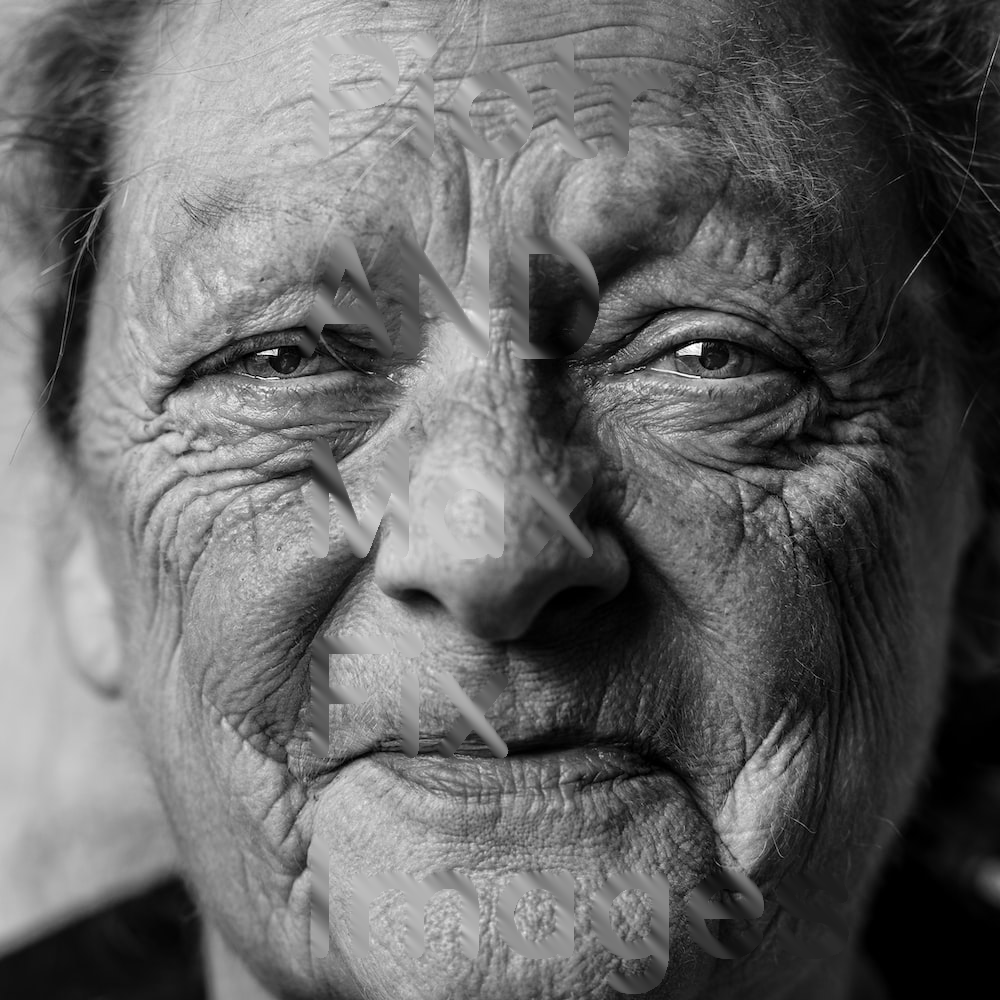
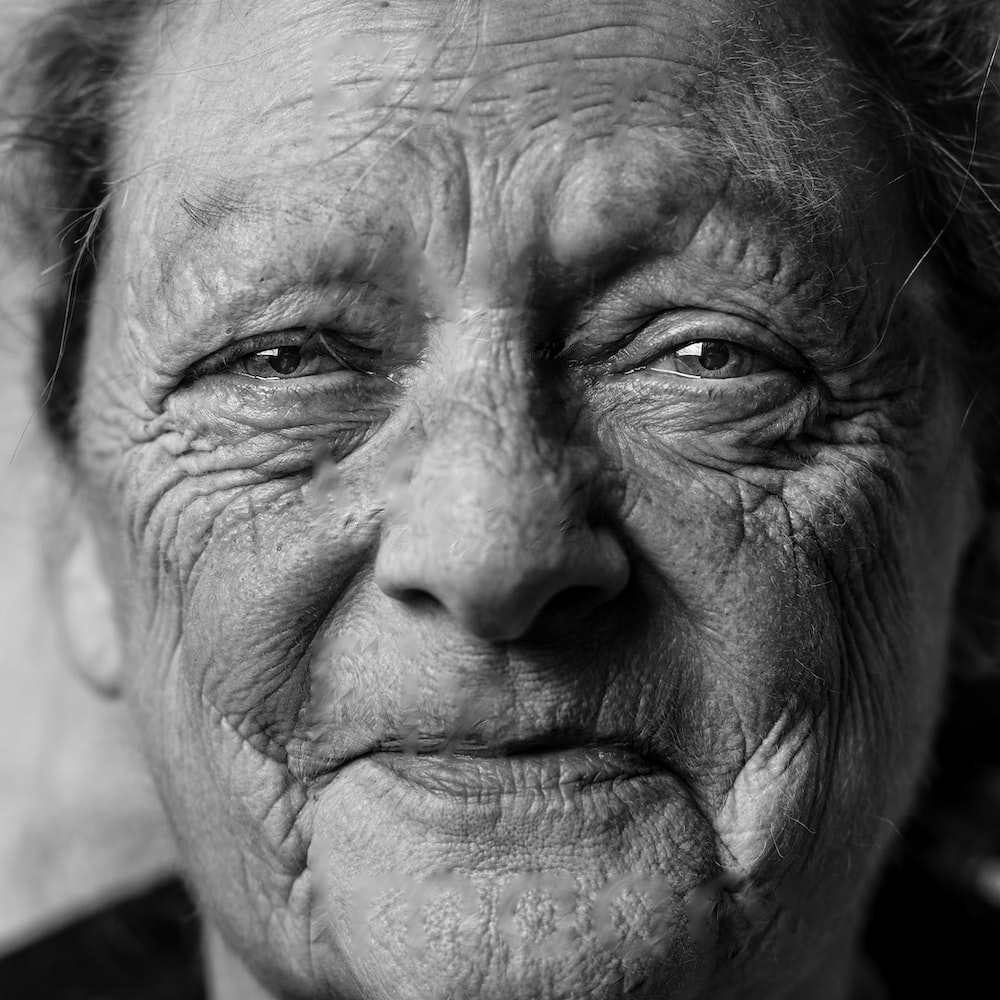
what

diff --git a/imagerestoration-1.py b/imagerestoration-1.py
@@ -74,7 +74,7 @@ def restore_image(masked1,mask,iteration,K):
     #get position of the mask
     positions=[]
 
-    for i in  tqdm(range(len(mask))):
+    for i in  (range(len(mask))):
         for j in range(len(mask[i])):
             if mask[i][j]==0:
                 positions.append((i,j))
@@ -124,7 +124,7 @@ def restore_image(masked1,mask,iteration,K):
                 #anisotropic equation
                 masked[i][j] = masked[i][j] + (((1/2)*(diffusion(masked,i+1, j,K) + diffusion(masked,i,j,K)))*(masked[i+1][j] - masked[i][j])-((1/2)*(diffusion(masked,i-1, j,K) + diffusion(masked,i, j,K)))\
                         *(masked[i][j]-masked[i-1][j])) + (((1/2)*(diffusion(masked,i, j+1,K) + diffusion(masked,i,j,K)))*(masked[i][j+1] - masked[i][j])-((1/2)*(diffusion(masked,i, j-1,K) + diffusion(masked,i, j,K)))\
-                                                                          *(masked[i][j]-masked[i][j-1]))
+                        *(masked[i][j]-masked[i][j-1]))
 
 
     return masked
@@ -159,27 +159,27 @@ def error_measure(mask, original, restored):
 
 
 #running the numerical method
-"""
-masked=restore_image(masked,mask,100,200)
+
+masked=restore_image(masked,mask,100,248)
 restored = Image.fromarray(masked)
 restored_save=restored.convert("L")
 restored_save.show()
-restored_save.save("new/restored.png")
+restored_save.save("new_method/restored.png")
 
 #calculate the error
 print("Calculate the error\n\n")
 print(error_measure(mask, ar, masked))
-
 """
+
 error_from_steps=[]
 
 #stepsize=np.logspace(0,3,30)
-stepsize=np.linspace(1,1000,10)
+stepsize=np.linspace(240,260,10)
 #print(stepsize)
 
 setpsize2=np.linspace(1,1000,10)
 maxvalud=len(stepsize)
-for i in (stepsize):
+for i in tqdm(stepsize):
     i=int(i)
     masked1=ar*mask
     
@@ -190,7 +190,7 @@ for i in (stepsize):
         restored = Image.fromarray(masked1)
         #restored.show()           
         restored2=restored.convert("L")
-        restored2.save("new/K_{}_new_method_restored.png".format(i))
+        restored2.save("new_method/K_{}_new_method_restored.png".format(i))
     print("calculating the error")
     error=error_measure(mask, ar, masked3)
     error_from_steps.append(error)
@@ -198,10 +198,13 @@ for i in (stepsize):
     print("\n\n")
 
 plt.plot(stepsize,error_from_steps)
+
 x=min(error_from_steps)
 y=stepsize[error_from_steps.index(x)]
-print("The minimum error is {} for value K={}".format(x,y))
+print("The minimum error is {} for K={}".format(x,y))
 plt.plot(y,x,marker="o",label="minimum error at {} iterations".format(y))
+print("The minimum error is {} for value K={}".format(x,y))
+
 #make a logorithim plot
 plt.grid()
 #plt.ylim(0)
@@ -209,5 +212,5 @@ plt.grid()
 plt.xlabel("Value of K")
 plt.ylabel("Chi^2 error")
 plt.title("Chi^2 error as a function of K")
-plt.savefig("new/error_vs_K.png", bbox_inches='tight')
-plt.show()
+plt.savefig("new_method/error_vs_K.png", bbox_inches='tight')
+plt.show()"""

diff --git a/imagerestoration.py b/imagerestoration.py
@@ -113,7 +113,7 @@ def restore_image(masked1,mask,iteration):
     return masked
 
 #running the numerical method
-masked=restore_image(masked,mask,1)
+masked=restore_image(masked,mask,67)
 masked_save=Image.fromarray(masked)
 masked_save=masked_save.convert('L')
 masked_save.save("restored.png")
@@ -147,7 +147,7 @@ def error_measure(mask, original, restored):
 
 print("Calculate the error\n\n")
 print(error_measure(mask, ar, masked))
-
+"""
 masked2=masked1
 error_from_steps=[]
 
@@ -194,4 +194,4 @@ plt.title("Chi^2 error as a function of the number of iterations")
 plt.savefig("error_vs_steps.png", bbox_inches='tight')
 #put legend i top right corner
 plt.legend(loc="upper right")
-plt.show()
+plt.show()"""
